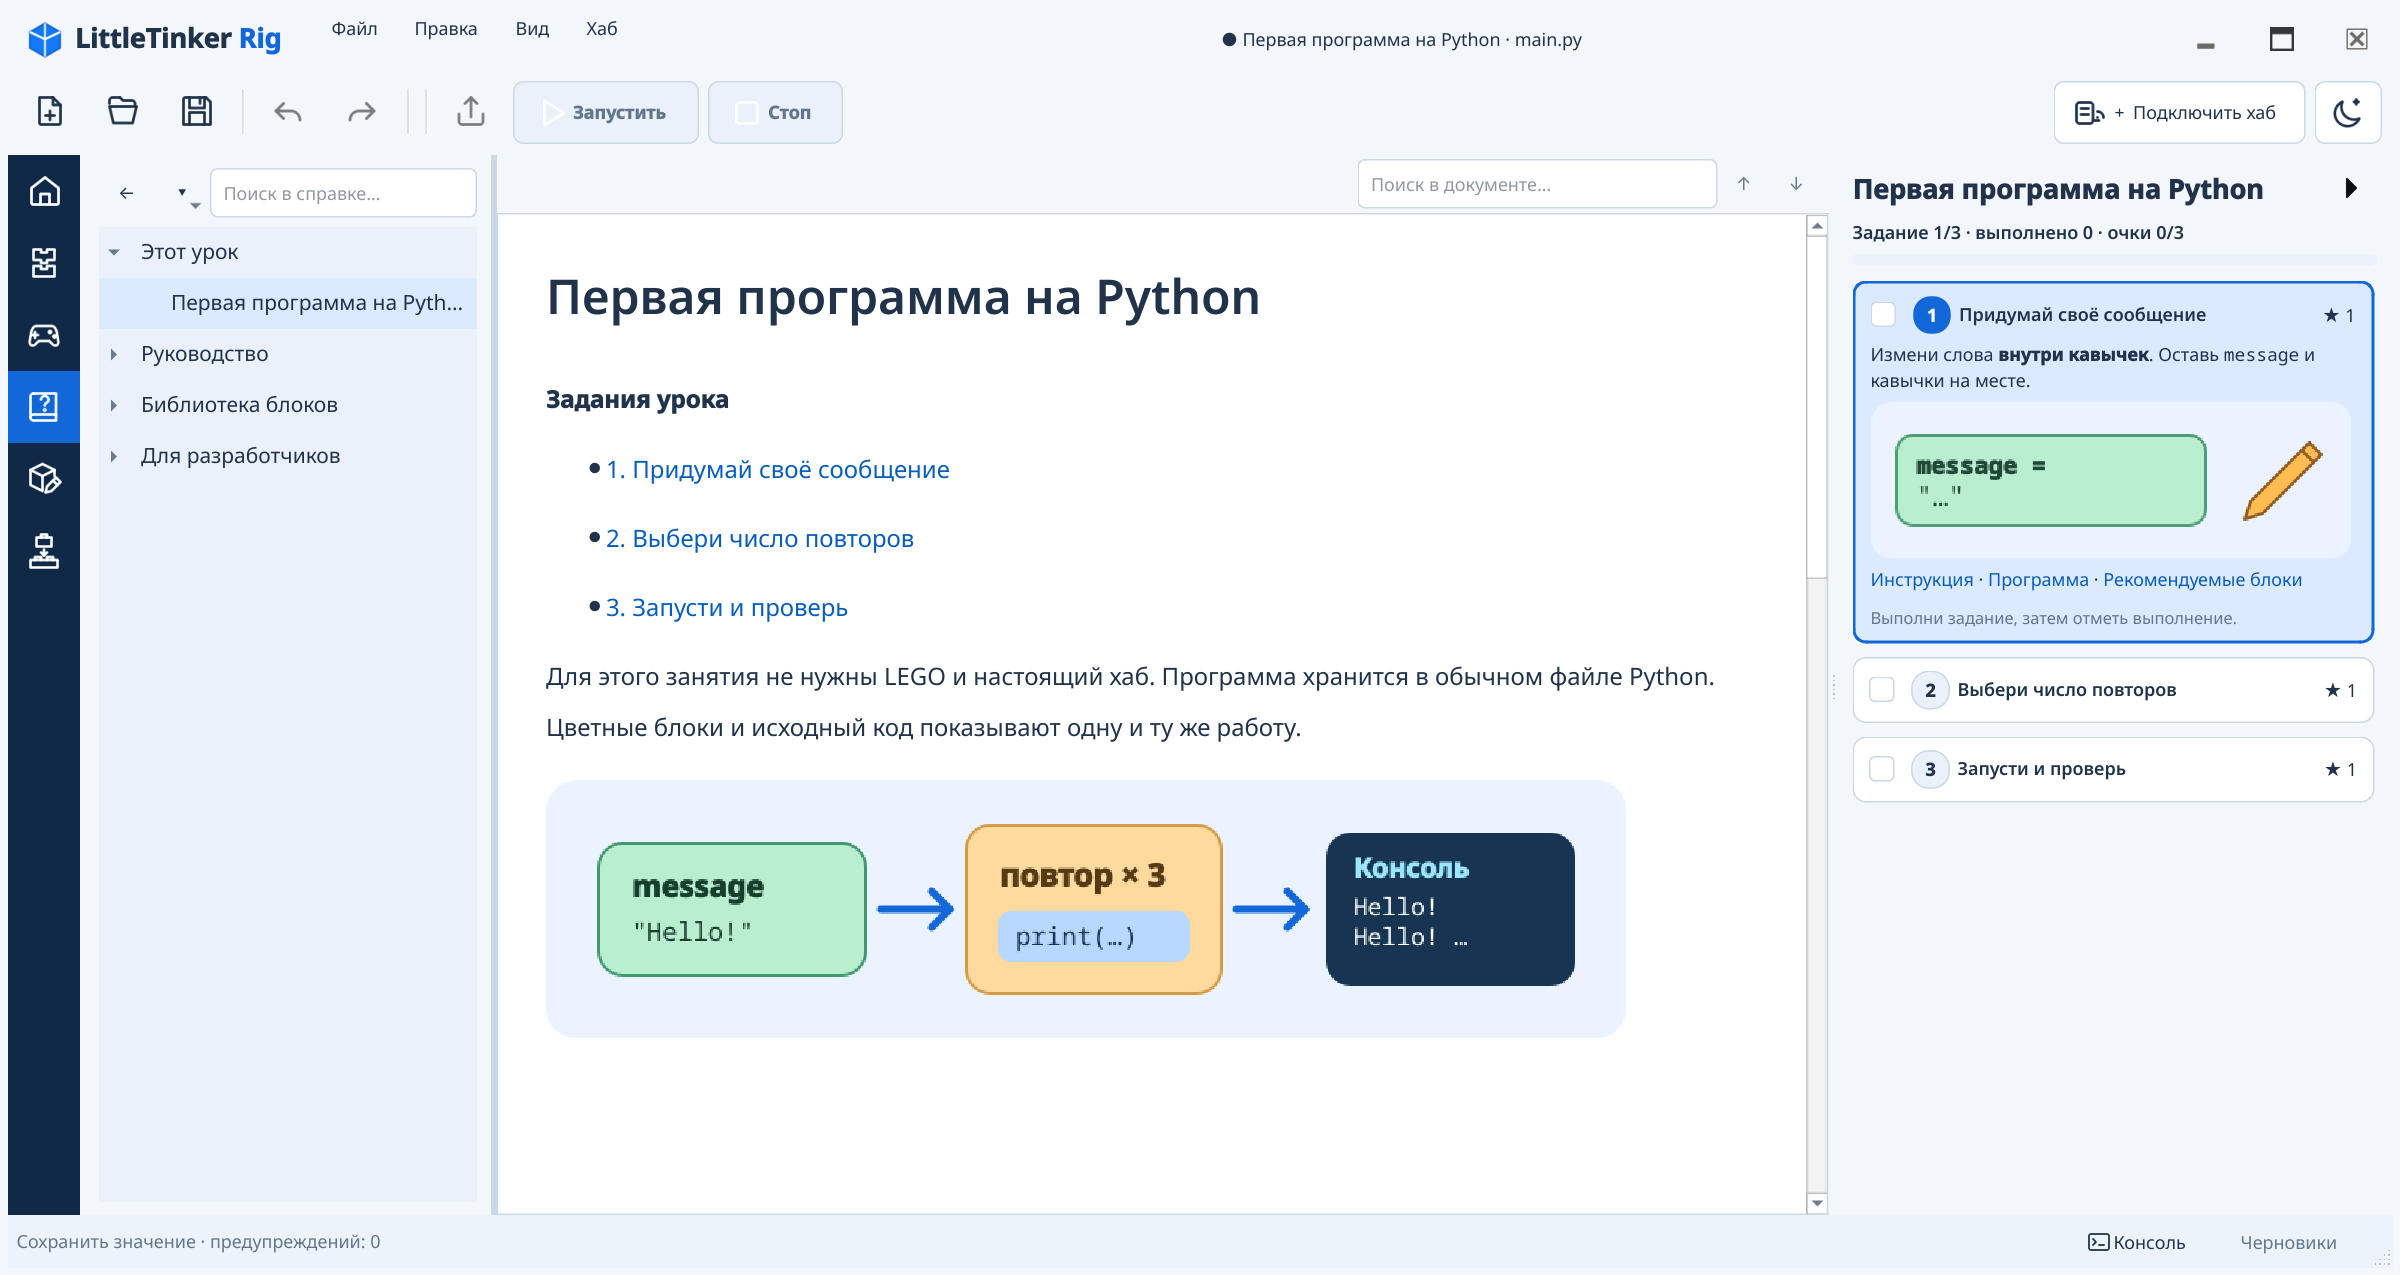
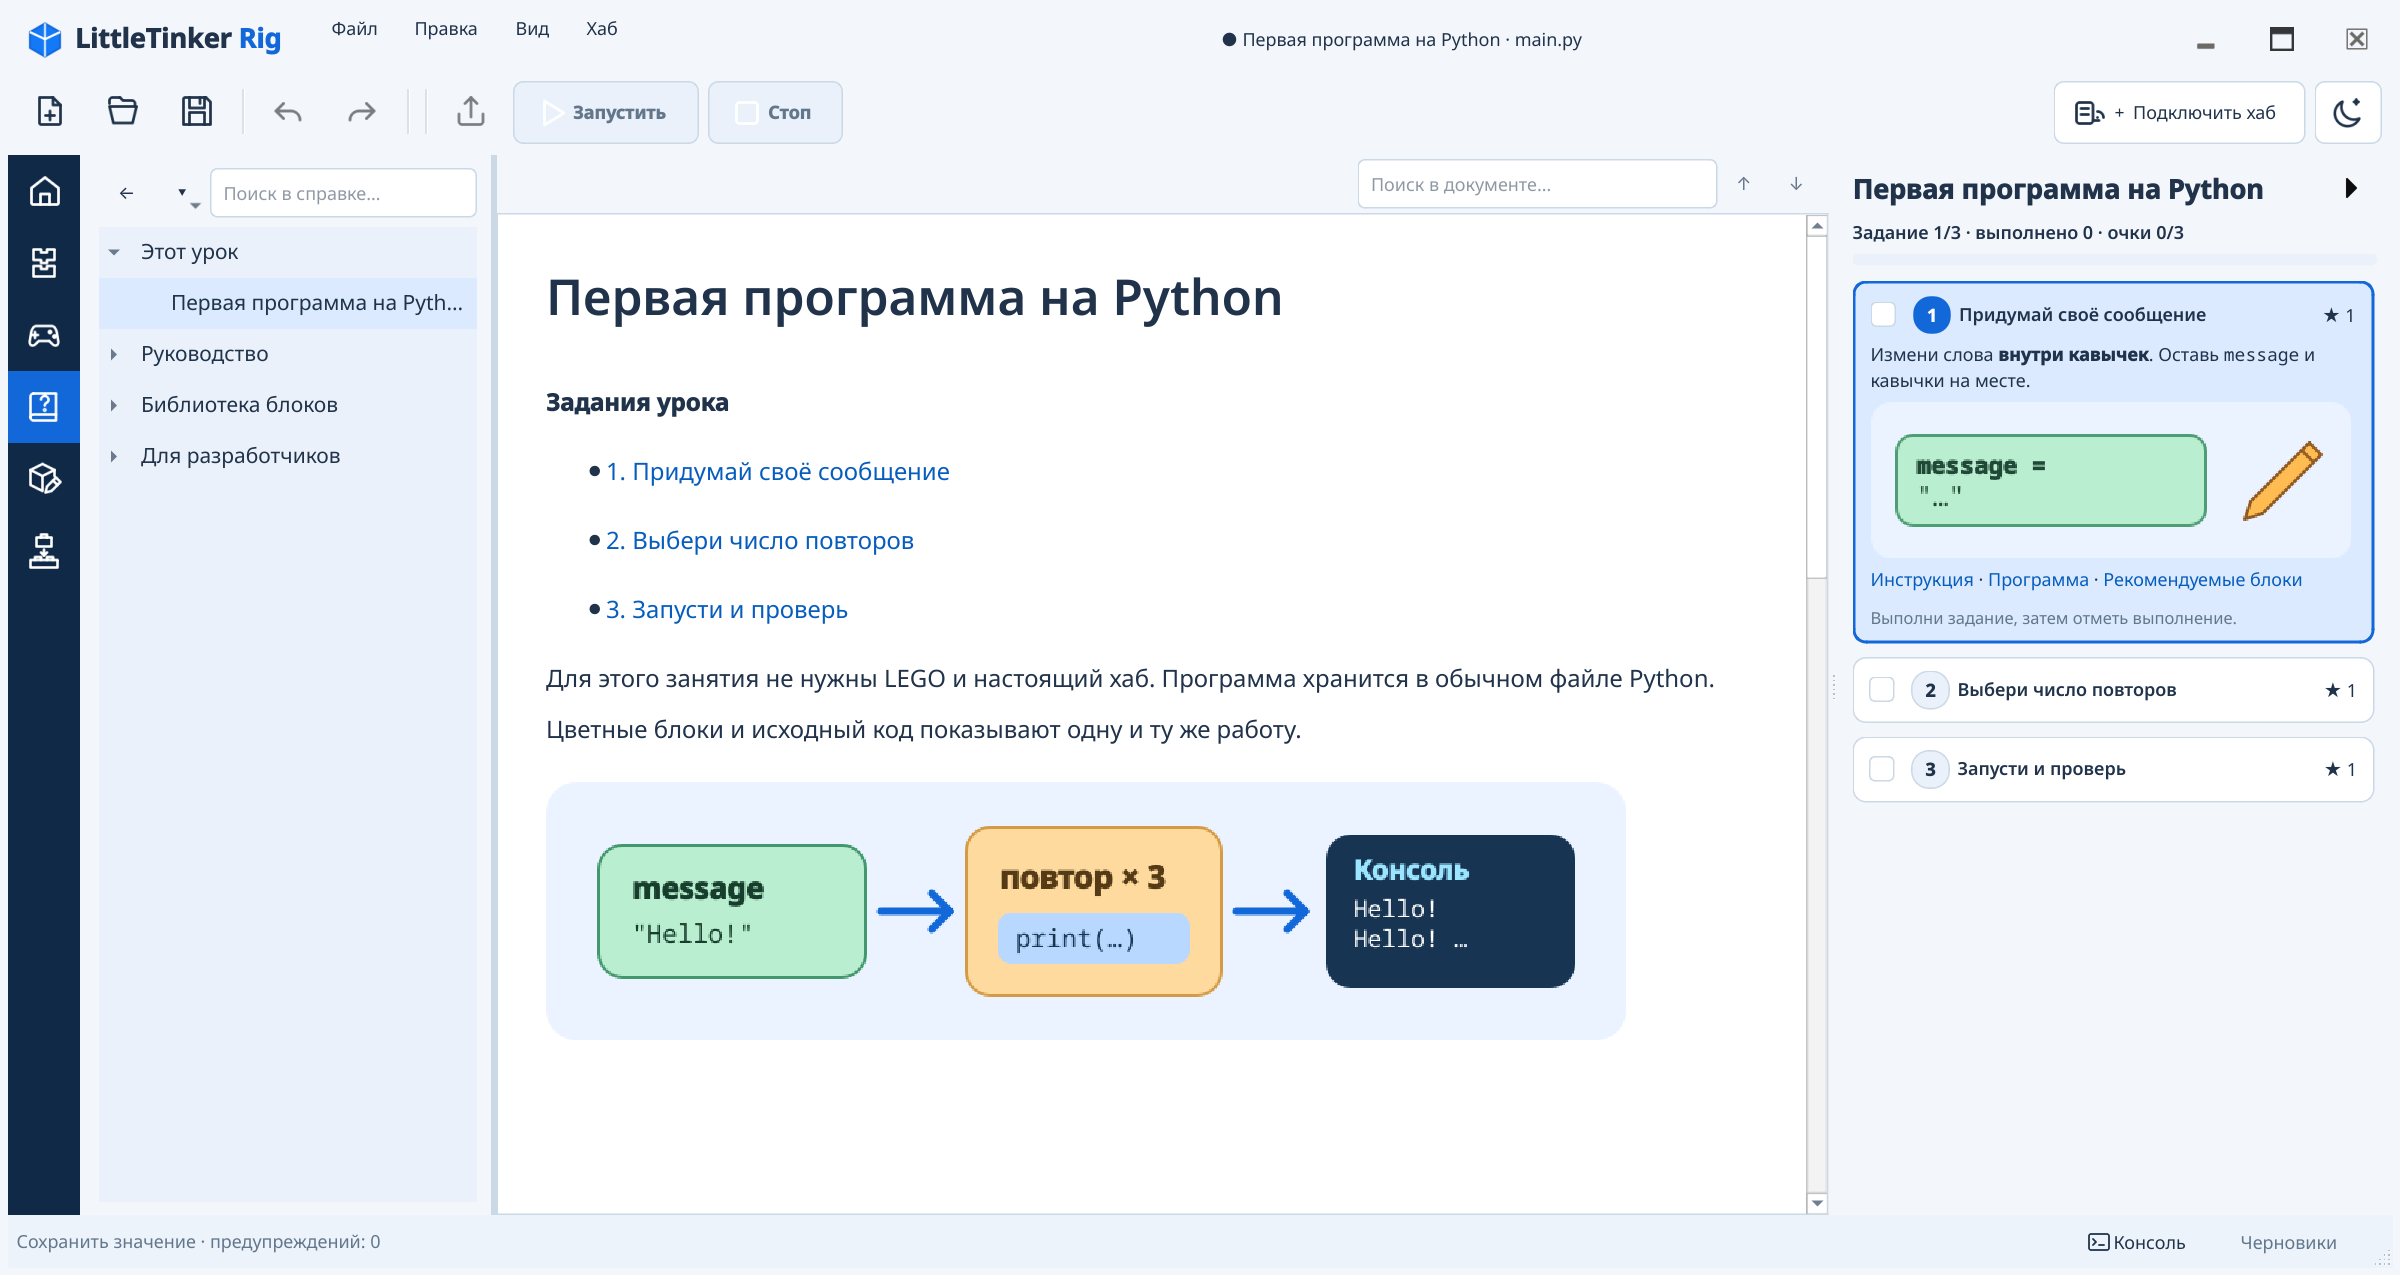
Keep lesson help readable in compact layouts

diff --git a/little_tinker_rig/qt/help.py b/little_tinker_rig/qt/help.py
@@ -17,6 +17,7 @@ from PySide6.QtGui import (
     QTextBlockFormat,
     QTextCharFormat,
     QTextCursor,
+    QTextFormat,
     QTextFrameFormat,
     QTextImageFormat,
     QTextTable,
@@ -120,6 +121,7 @@ class HelpBrowser(QTextBrowser):
     def __init__(self):
         super().__init__()
         self.lesson_numbers = {}
+        self._compact_document = self.width() < 440
 
     def lesson_number_image(self, number):
         c = colors()
@@ -194,13 +196,20 @@ class HelpBrowser(QTextBrowser):
         if self.viewportMargins().left() != inset:
             self.setViewportMargins(inset, 0, inset, 0)
         super().resizeEvent(event)
-        self.fit_images()
+        compact = self.width() < 440
+        if compact != self._compact_document:
+            scroll = self.verticalScrollBar().value()
+            self._compact_document = compact
+            self.style_document()
+            self.verticalScrollBar().setValue(scroll)
+        else:
+            self.fit_images()
 
     def style_document(self):
         c = colors()
         document = self.document()
         document.setDefaultFont(QFont("sans-serif", 12))
-        document.setDocumentMargin(32)
+        document.setDocumentMargin(14 if self._compact_document else 32)
         block = document.begin()
         while block.isValid():
             cursor = QTextCursor(block)
@@ -211,8 +220,13 @@ class HelpBrowser(QTextBrowser):
                 145 if code else 155,
                 QTextBlockFormat.LineHeightTypes.ProportionalHeight.value,
             )
-            format.setTopMargin(24 if heading else 0)
-            format.setBottomMargin(12 if heading else 0 if code else 12)
+            format.setTopMargin(
+                (12 if self._compact_document else 24) if heading else 0
+            )
+            bottom_margin = 0 if code else 12
+            if heading and self._compact_document:
+                bottom_margin = 8
+            format.setBottomMargin(bottom_margin)
             if code:
                 format.setBackground(QColor(c["raised"]))
                 format.setLeftMargin(14)
@@ -226,21 +240,36 @@ class HelpBrowser(QTextBrowser):
                 text_format.setForeground(QColor(c["text"]))
                 cursor.mergeCharFormat(text_format)
             elif heading:
-                if block.text().startswith("\ufffc"):
-                    cursor.setPosition(block.position() + 1)
-                    cursor.movePosition(
-                        QTextCursor.MoveOperation.EndOfBlock,
-                        QTextCursor.MoveMode.KeepAnchor,
-                    )
+                if heading == 1:
+                    heading_size = 19 if self._compact_document else 25
+                elif heading == 2:
+                    heading_size = 16 if self._compact_document else 18
                 else:
-                    cursor.select(QTextCursor.SelectionType.BlockUnderCursor)
-                text_format = cursor.charFormat()
-                text_format.setFontPointSize(
-                    25 if heading == 1 else 18 if heading == 2 else 14
+                    heading_size = 14
+                start = block.position() + (
+                    1 if block.text().startswith("\ufffc") else 0
                 )
-                text_format.setForeground(QColor(c["text"]))
-                text_format.setFontWeight(QFont.Weight.DemiBold)
-                cursor.mergeCharFormat(text_format)
+                end = block.position() + len(block.text())
+                fragments = []
+                item = block.begin()
+                while not item.atEnd():
+                    fragment = item.fragment()
+                    first = max(start, fragment.position())
+                    last = min(end, fragment.position() + fragment.length())
+                    if first < last:
+                        text_format = fragment.charFormat()
+                        text_format.clearProperty(
+                            QTextFormat.Property.FontSizeAdjustment
+                        )
+                        text_format.setFontPointSize(heading_size)
+                        text_format.setForeground(QColor(c["text"]))
+                        text_format.setFontWeight(QFont.Weight.DemiBold)
+                        fragments.append((first, last, text_format))
+                    item += 1
+                for first, last, text_format in fragments:
+                    cursor.setPosition(first)
+                    cursor.setPosition(last, QTextCursor.MoveMode.KeepAnchor)
+                    cursor.setCharFormat(text_format)
             cursor.clearSelection()
             cursor.setPosition(block.position())
             cursor.setBlockFormat(format)

diff --git a/tests/test_lesson_ui.py b/tests/test_lesson_ui.py
@@ -722,6 +722,38 @@ def test_compact_tasks_keep_lesson_instructions_readable(tmp_path, qt_app):
         window.deleteLater()
 
 
+def test_compact_lesson_help_shows_first_task_with_console_open(tmp_path, qt_app):
+    from pathlib import Path
+
+    from PySide6.QtTest import QTest
+
+    from little_tinker_rig.qt.app import Studio
+
+    window = Studio(tmp_path / "plain.py")
+    window.confirm_close = lambda *_: True
+    window.setMinimumWidth(0)
+    window.resize(800, 620)
+    window.show()
+    try:
+        window.change_language("ru")
+        window.lessons.open(Path("lessons/first_python"))
+        window.console_dock.show()
+        window.lessons.set_panel_expanded(True)
+        window.help_page.show_lesson_home(window.lessons.current.lesson)
+        QTest.qWait(90)
+
+        browser = window.help_page.browser
+        first_task = browser.document().find("Придумай своё сообщение")
+        assert not first_task.isNull()
+        assert browser.verticalScrollBar().value() == 0
+        assert (
+            browser.viewport().rect().contains(browser.cursorRect(first_task).center())
+        )
+    finally:
+        window.close()
+        window.deleteLater()
+
+
 def test_help_destination_link_clears_compact_task_overlay(tmp_path, qt_app):
     from pathlib import Path
 
